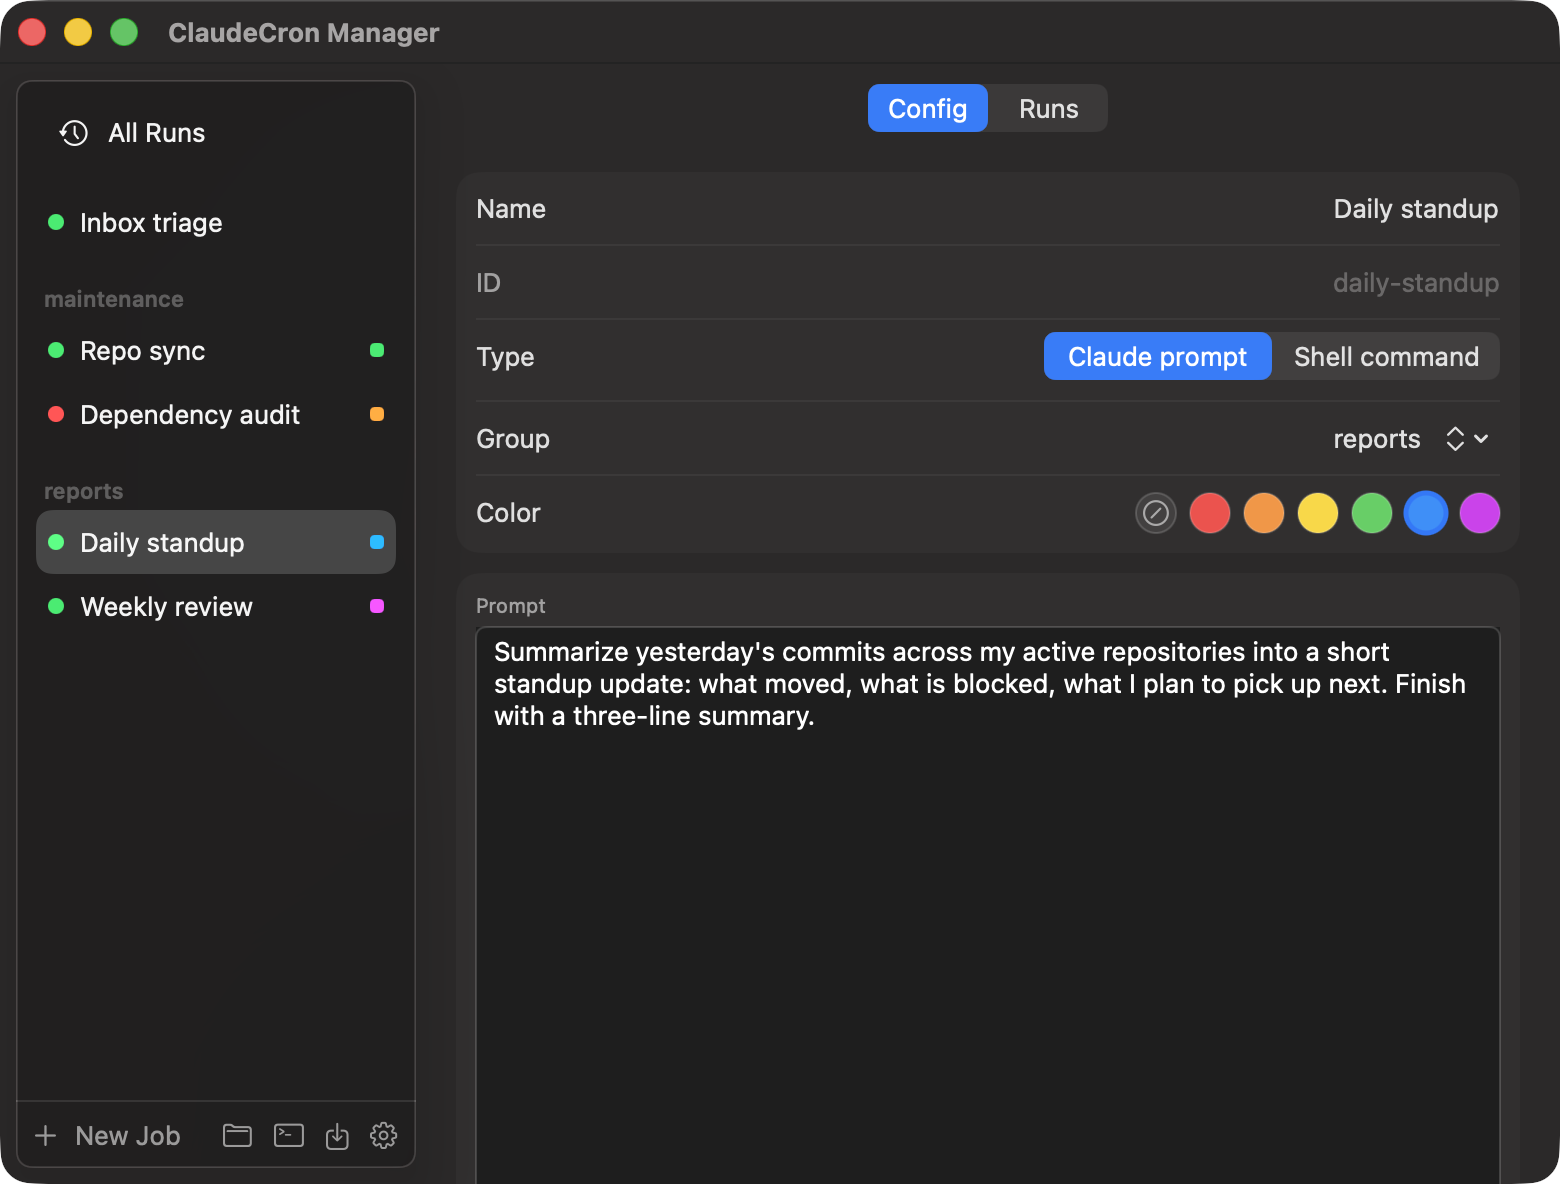
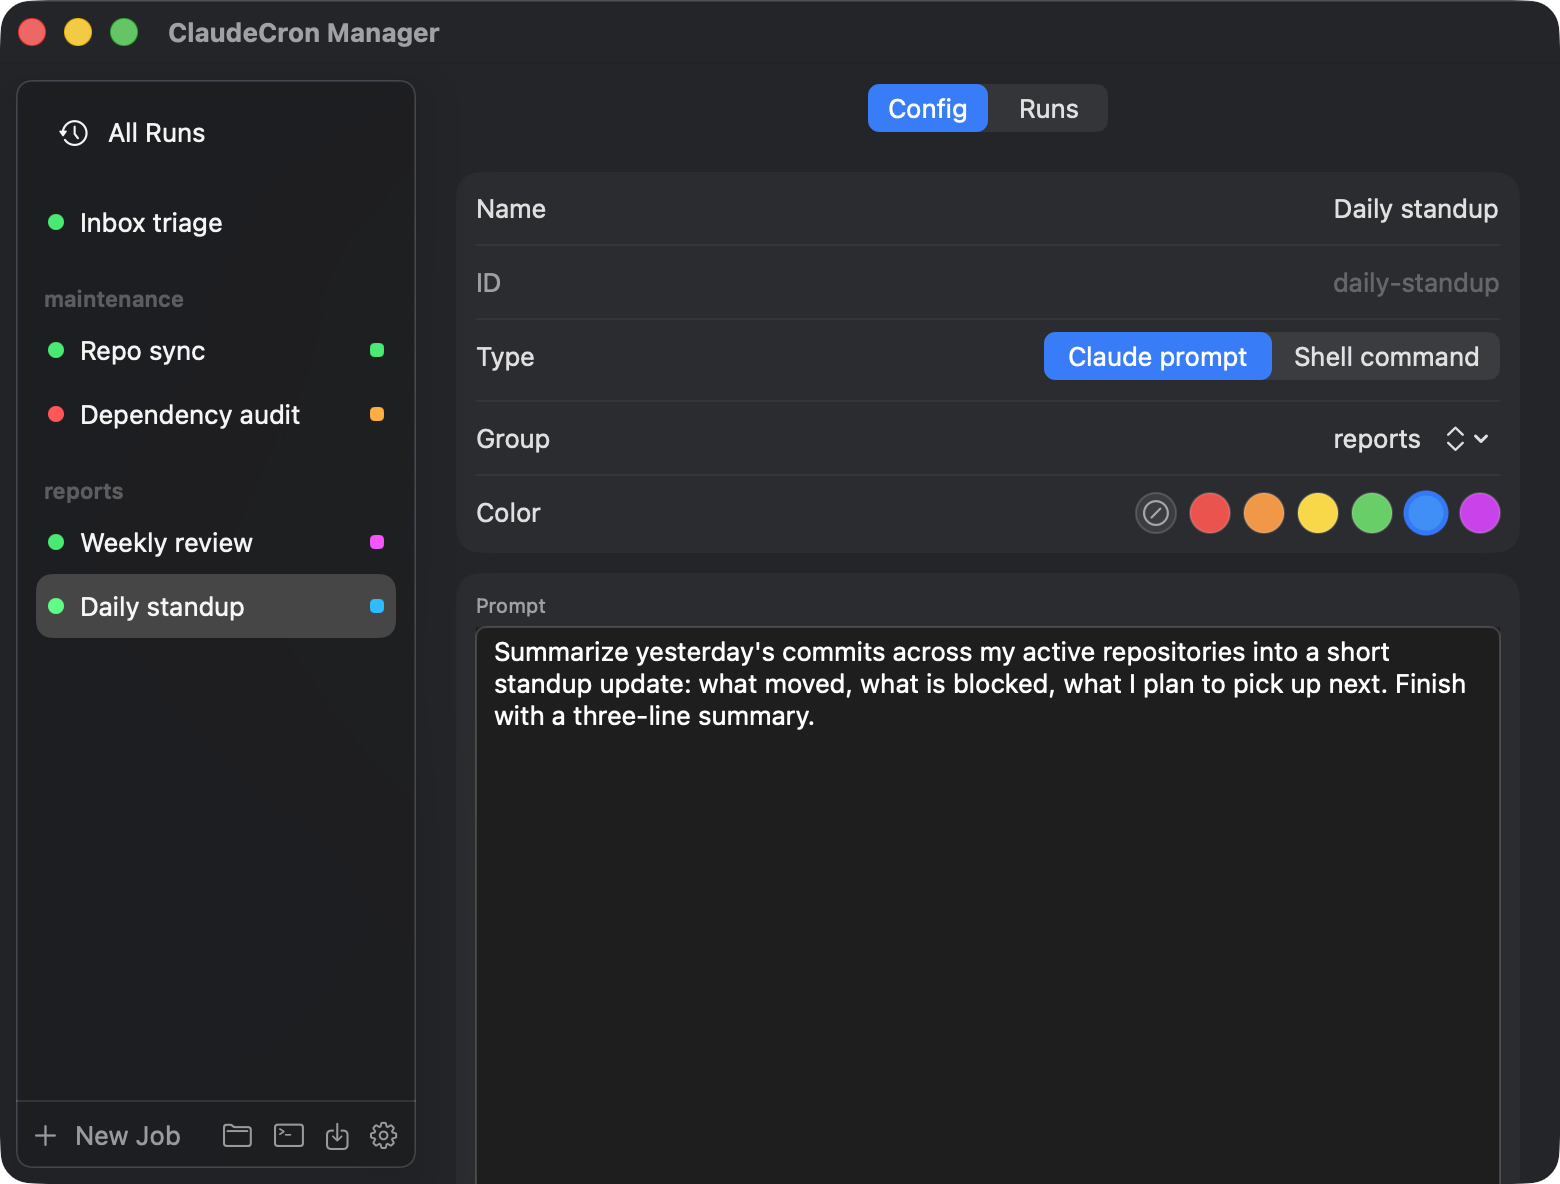
Screenshot the Delivery section
The switches sit below the prompt editor, so the existing shots never showed
them. Screenshot mode now scrolls the config form before taking a third
picture; the form is told apart from the sidebar by overflow, since both
report x=0 through the split view, and each step waits a turn of the run loop
because a scroll issued in the same block is captured before it redraws.
demo_seed seeds the new switches instead of the retired telegramNotify.

Changed region(s): [[0.0, 0.4062, 0.2769, 0.5625]]

diff --git a/Sources/ClaudeCron/Screenshots.swift b/Sources/ClaudeCron/Screenshots.swift
@@ -62,31 +62,72 @@ enum Screenshots {
             manager.setFrameTopLeftPoint(NSPoint(x: area.minX + 420, y: area.maxY - 40))
         }
 
-        DispatchQueue.main.asyncAfter(deadline: .now() + 1.6) {
+        // Each shot needs the previous state to settle first, so the sequence is a
+        // chain of delayed steps rather than one block: capture the top of the form,
+        // scroll, capture the delivery switches, only then switch job and tab.
+        step(after: 1.6) {
             capture(panel, to: dir.appendingPathComponent("panel.png"))
             if let manager = managerWindow() {
                 capture(manager, to: dir.appendingPathComponent("manager-config.png"))
+                scrollFormToBottom(manager)
             }
 
-            // --- manager: run history of the job whose last run failed, log selected
-            let failedJob = store.jobs.first { spec in
-                store.runs(for: spec.id).first?.exitCode.map { $0 != 0 } ?? false
-            } ?? store.jobs.first
-            if let job = failedJob {
-                state.draft = nil
-                state.selectedJobID = job.id
-                state.tab = .runs
-                state.selectedRunID = store.runs(for: job.id).first?.id
-            }
-
-            DispatchQueue.main.asyncAfter(deadline: .now() + 1.2) {
+            step(after: 0.8) {
                 if let manager = managerWindow() {
-                    capture(manager, to: dir.appendingPathComponent("manager-runs.png"))
+                    capture(manager, to: dir.appendingPathComponent("manager-delivery.png"))
                 }
-                panel.orderOut(nil)
-                finish()
+
+                // --- run history of the job whose last run failed, with its log open
+                let failed = store.jobs.first { spec in
+                    store.runs(for: spec.id).first?.exitCode.map { $0 != 0 } ?? false
+                } ?? store.jobs.first
+                if let job = failed {
+                    state.draft = nil
+                    state.selectedJobID = job.id
+                    state.tab = .runs
+                    state.selectedRunID = store.runs(for: job.id).first?.id
+                }
+
+                step(after: 1.2) {
+                    if let manager = managerWindow() {
+                        capture(manager, to: dir.appendingPathComponent("manager-runs.png"))
+                    }
+                    panel.orderOut(nil)
+                    finish()
+                }
             }
         }
+    }
+
+    private static func step(after seconds: Double, _ body: @escaping () -> Void) {
+        DispatchQueue.main.asyncAfter(deadline: .now() + seconds, execute: body)
+    }
+
+    /// Scrolls the config form (not the sidebar, not the prompt editor) to its end.
+    /// Picked by geometry and content height: the form is the tall scroller on the
+    /// right-hand side of the split view.
+    private static func scrollFormToBottom(_ window: NSWindow) {
+        guard let root = window.contentView else { return }
+        var candidates: [NSScrollView] = []
+        func walk(_ view: NSView) {
+            if let scroll = view as? NSScrollView { candidates.append(scroll) }
+            view.subviews.forEach(walk)
+        }
+        walk(root)
+
+        // Position does not tell the form apart from the sidebar - both report x=0
+        // through the split view. Overflow does: only the form has more content than
+        // it can show.
+        let form = candidates
+            .map { ($0, ($0.documentView?.frame.height ?? 0) - $0.contentSize.height) }
+            .filter { $0.1 > 1 }
+            .max { $0.1 < $1.1 }?.0
+
+        guard let form, let doc = form.documentView else { return }
+        let maxY = max(0, doc.frame.height - form.contentSize.height)
+        form.contentView.scroll(to: NSPoint(x: 0, y: maxY))
+        form.reflectScrolledClipView(form.contentView)
+        form.displayIfNeeded()
     }
 
     private static func managerWindow() -> NSWindow? {

diff --git a/packaging/demo_seed.py b/packaging/demo_seed.py
@@ -24,7 +24,7 @@ JOBS = [
         "prompt": "Summarize yesterday's commits across my active repositories "
                   "into a short standup update: what moved, what is blocked, "
                   "what I plan to pick up next. Finish with a three-line summary.",
-        "workdir": "~/dev", "telegramNotify": True, "notifyOnSuccess": False,
+        "workdir": "~/dev", "tgStatus": True, "tgOutput": True, "notifyOnSuccess": False,
         "model": "sonnet", "effort": None,
     },
     {
@@ -33,14 +33,14 @@ JOBS = [
         "prompt": "Build a weekly review from this week's work: shipped items, "
                   "open threads, and anything that slipped. Save the report as "
                   "$CLAUDE_CRON_OUTBOX/01-review.md so it lands in Telegram.",
-        "workdir": "~/dev", "telegramNotify": True, "notifyOnSuccess": False,
+        "workdir": "~/dev", "tgStatus": True, "tgOutput": True, "notifyOnSuccess": False,
         "model": None, "effort": "high",
     },
     {
         "id": "repo-sync", "name": "Repo sync", "group": "maintenance",
         "color": "green", "kind": "shell", "schedule": "*/30 * * * *",
         "command": "git -C ~/dev/notes pull --ff-only && echo synced",
-        "workdir": "~/dev", "telegramNotify": False, "notifyOnSuccess": False,
+        "workdir": "~/dev", "tgStatus": True, "tgOutput": False, "notifyOnSuccess": False,
         "model": None, "effort": None,
     },
     {
@@ -48,7 +48,7 @@ JOBS = [
         "color": "orange", "kind": "claude", "schedule": "0 3 * * 1",
         "prompt": "Audit dependencies for known advisories and pins that drifted. "
                   "Report only actionable findings, newest advisories first.",
-        "workdir": "~/dev", "telegramNotify": False, "notifyOnSuccess": True,
+        "workdir": "~/dev", "tgStatus": False, "tgOutput": False, "notifyOnSuccess": True,
         "model": None, "effort": None,
     },
     {
@@ -56,7 +56,7 @@ JOBS = [
         "color": None, "kind": "claude", "schedule": "0 */4 * * *",
         "prompt": "Triage my notes inbox: file each new note under the right "
                   "topic, merge duplicates, and list anything that needs a decision.",
-        "workdir": "~/dev", "telegramNotify": False, "notifyOnSuccess": False,
+        "workdir": "~/dev", "tgStatus": True, "tgOutput": False, "notifyOnSuccess": False,
         "model": "haiku", "effort": "low",
     },
 ]
@@ -103,7 +103,8 @@ for job in JOBS:
         "schedule": job["schedule"], "model": job["model"],
         "effort": job["effort"], "extraArgs": "", "skipPermissions": True,
         "notifyOnSuccess": job["notifyOnSuccess"],
-        "telegramNotify": job["telegramNotify"], "enabled": True,
+        "telegramStatus": job["tgStatus"], "telegramOutput": job["tgOutput"],
+        "enabled": True,
         "color": job["color"],
         "createdAt": (now - timedelta(days=30)).strftime("%Y-%m-%dT%H:%M:%SZ"),
         "updatedAt": (now - timedelta(days=2)).strftime("%Y-%m-%dT%H:%M:%SZ"),

diff --git a/README.md b/README.md
@@ -28,6 +28,12 @@ A macOS menu bar app for scheduling and monitoring recurring [Claude Code](https
     <td align="center"><sub>Manager - job config</sub></td>
     <td align="center"><sub>Manager - run history and log</sub></td>
   </tr>
+  <tr>
+    <td colspan="2"><img src="docs/screenshots/manager-delivery.png" alt="Manager window, Delivery section: switches for Telegram run status, Telegram job output and the macOS notification"></td>
+  </tr>
+  <tr>
+    <td colspan="2" align="center"><sub>Delivery - what a run sends, decided here rather than in the prompt</sub></td>
+  </tr>
 </table>
 
 ## How it works
